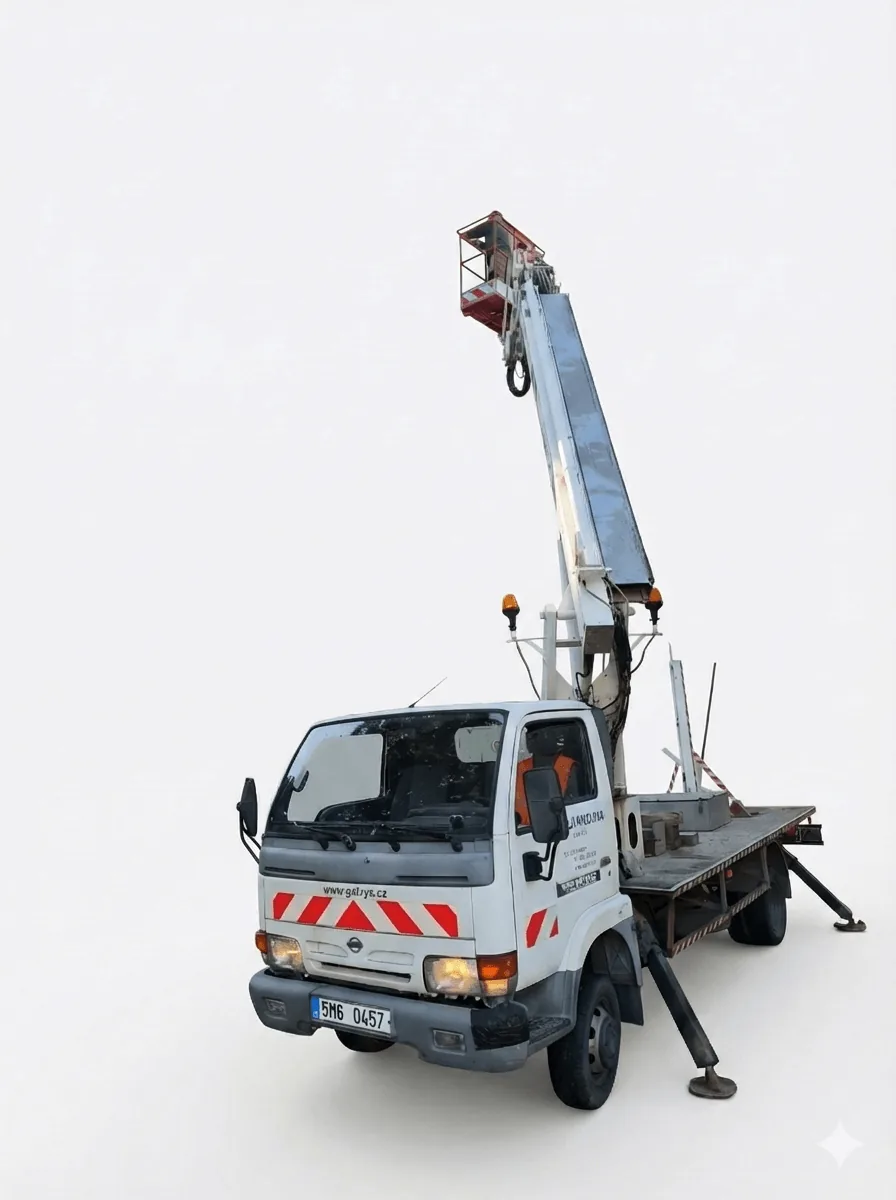
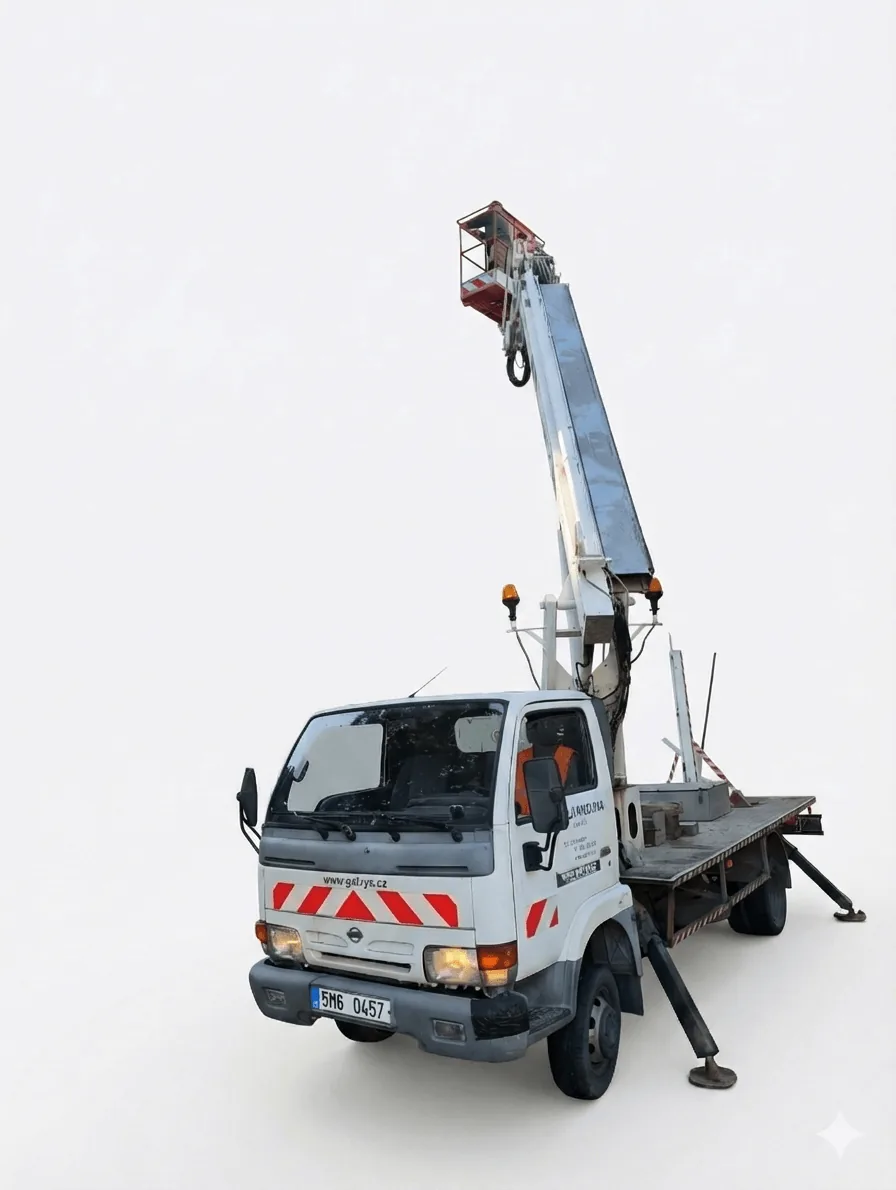
Trim vehicle1 to 896x1190 to match vehicle2 size

Changed region(s): [[0.25, 0.1555, 0.9688, 0.8706], [0.7188, 0.7773, 0.7812, 0.8084], [0.7812, 0.8706, 0.8125, 0.9017]]

diff --git a/index.html b/index.html
@@ -175,7 +175,7 @@
             <img
               src="./vehicle1.webp"
               width="896"
-              height="1200"
+              height="1190"
               loading="lazy"
               class="img-fluid border rounded-3 shadow-lg"
               alt="fotka vysokozdvižné plošiny"
